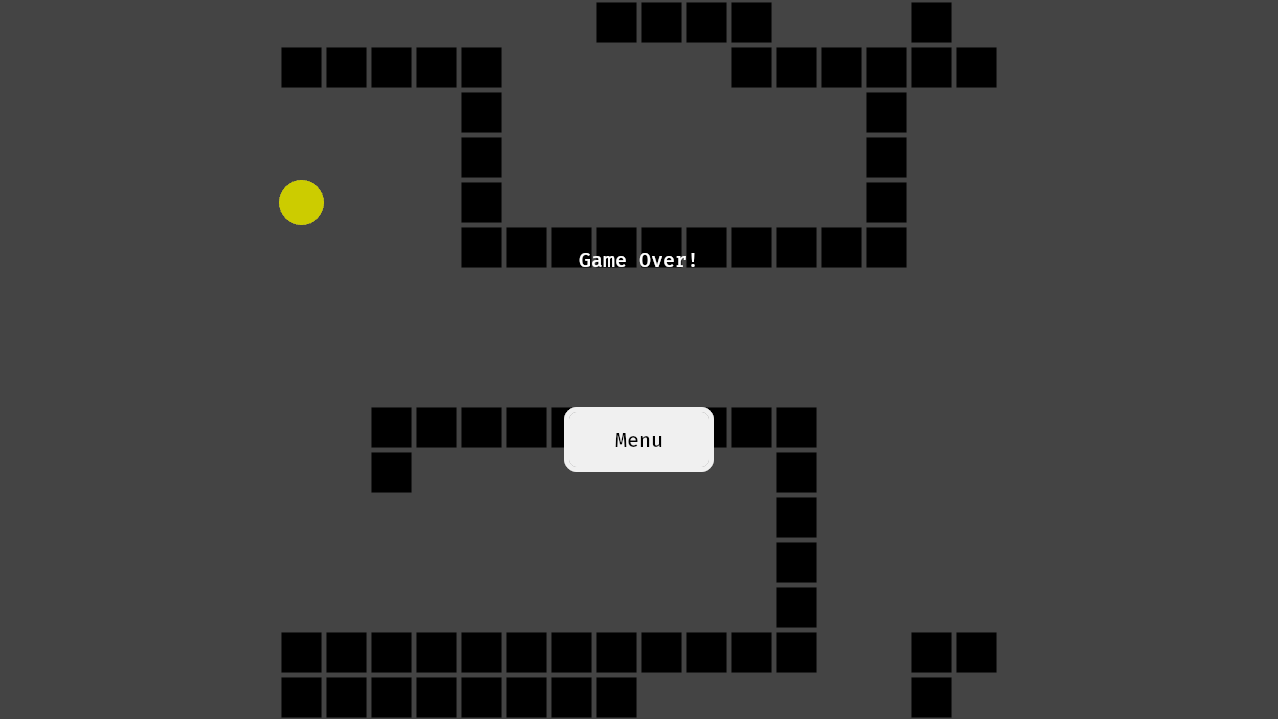
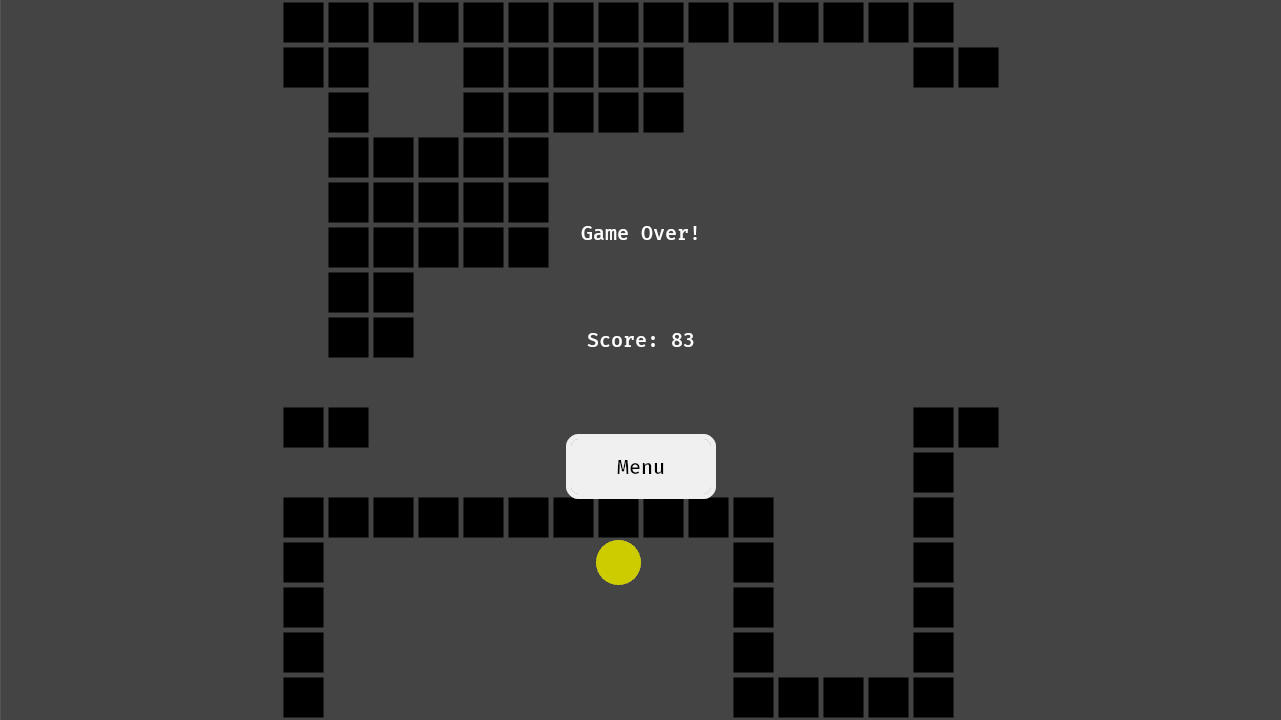
added score

Changed region(s): [[0.2136, 0.5508, 0.7934, 1.0], [0.2136, 0.0, 0.7324, 0.5202], [0.4577, 0.459, 0.5493, 0.4896]]

diff --git a/src/food/mod.rs b/src/food/mod.rs
@@ -7,8 +7,10 @@ pub struct FoodPlugin;
 impl Plugin for FoodPlugin {
     fn build(&self, app: &mut App) {
         app
+            .init_resource::<SnakeStats>()
             .add_systems(FixedUpdate, spawn_food)
             .add_observer(add_sprite_food)
+            .add_observer(increase_score)
         ;
     }
 }
@@ -20,16 +22,30 @@ pub fn spawn_food(
     grid: Res<Grid>,
 ) {
     if query.is_empty() {
-        commands.spawn((
-            Food {},
-            grid.random_unoccupied_pos(&mut random_source),
-        ));
+        if let Some(pos) = grid.random_unoccupied_pos(&mut random_source) {
+            commands.spawn((
+                Food {},
+                pos,
+            ));
+        }
     }
 }
+
+pub fn increase_score(
+    _trigger: Trigger<OnRemove, Food>,
+    mut stats: ResMut<SnakeStats>
+) {
+    stats.eaten += 1;
+}
+
 
 #[derive(Component)]
 pub struct Food {}
 
+#[derive(Resource, Default)]
+pub struct SnakeStats {
+    pub eaten: u32,
+}
 
 pub fn add_sprite_food(
     trigger: Trigger<OnAdd, Food>,

diff --git a/src/ui/view/mod.rs b/src/ui/view/mod.rs
@@ -1,7 +1,7 @@
 use bevy::prelude::*;
 use leafwing_input_manager::prelude::*;
 
-use crate::{actions::HUDAction, buttons::components::SimpleButton, ui::view::{game_over::build_game_over, play::build_play}};
+use crate::{actions::HUDAction, buttons::components::SimpleButton, food::SnakeStats, ui::view::{game_over::build_game_over, play::build_play}};
 
 use super::components::*;
 use crate::app_state::AppState;
@@ -17,13 +17,14 @@ use menu::*;
 /// View function - the ELM way
 pub fn ui_view_system(
     current_state: Res<State<AppState>>,
+    stats: ResMut<SnakeStats>,
     mut commands: Commands,
 ) {
     // Only rebuild when state changed
     let view = match current_state.get() {
         AppState::Menu => commands.spawn(build_menu()),
         AppState::Play => commands.spawn(build_play()),
-        AppState::GameOver => commands.spawn(build_game_over()),
+        AppState::GameOver => commands.spawn(build_game_over(&stats)),
     }.id();
     commands.entity(view).insert(UIRoot {});
 }

diff --git a/src/grid/resources.rs b/src/grid/resources.rs
@@ -35,7 +35,7 @@ impl Grid {
         (min, max)
     }
 
-    pub fn random_unoccupied_pos(&self, rng: &mut RandomSource) -> GridPos {
+    pub fn random_unoccupied_pos(&self, rng: &mut RandomSource) -> Option<GridPos> {
         let mut unoccupied_positions = Vec::new();
         for y in 0..self.size.y {
             for x in 0..self.size.x {
@@ -46,10 +46,11 @@ impl Grid {
             }
         }
         if unoccupied_positions.is_empty() {
-            panic!("No unoccupied positions found");
+            None
+        } else {
+            let i = rng.0.sample(Uniform::new(0, unoccupied_positions.len()).unwrap());
+            Some(GridPos(unoccupied_positions[i]))
         }
-        let i = rng.0.sample(Uniform::new(0, unoccupied_positions.len()).unwrap());
-        GridPos(unoccupied_positions[i])
     }
 
     fn pos_to_i(&self, pos: &UVec2) -> usize {

diff --git a/src/ui/view/game_over.rs b/src/ui/view/game_over.rs
@@ -1,9 +1,9 @@
 use bevy::prelude::*;
 
-use crate::{actions::HUDAction, ui::elements::menu_button};
+use crate::{actions::HUDAction, food::SnakeStats, ui::elements::menu_button};
 
 
-pub fn build_game_over() -> impl Bundle {
+pub fn build_game_over(stats: &SnakeStats) -> impl Bundle {
     // Main column
     (
         Node {
@@ -17,6 +17,7 @@ pub fn build_game_over() -> impl Bundle {
         },
         children![
             Text("Game Over!".into()),
+            Text(format!("Score: {}", stats.eaten)),
             // Menu button
             menu_button("Menu", HUDAction::ToMenu),
         ]

diff --git a/src/grid/components.rs b/src/grid/components.rs
@@ -42,15 +42,6 @@ pub enum GlobalDirection {
 }
 
 impl GlobalDirection {
-    pub fn to_rotation(&self) -> Quat {
-        match self {
-           Self::North => Quat::from_rotation_z(0.0),
-           Self::West => Quat::from_rotation_z(std::f32::consts::PI / 2.0),
-           Self::South => Quat::from_rotation_z(std::f32::consts::PI),
-           Self::East => Quat::from_rotation_z(std::f32::consts::PI * 3.0 / 2.0),
-        }
-    }
-
     pub fn rotate(&self, dir: &LocalDirection) -> Self {
         // add directions
         let a = *self as u8 as i32 + *dir as u8 as i32 - 1;

diff --git a/src/main.rs b/src/main.rs
@@ -1,7 +1,7 @@
 #![feature(trait_alias)]
 use bevy::prelude::*;
 
-use crate::{actions::ActionsPlugin, app_state::AppState, buttons::ButtonsPlugin, food::{Food, FoodPlugin}, game_loop::GameLoopPlugin, grid::{Grid, GridPlugin}, rng::RngPlugin, snake::{spawn_snake, Body, SnakePlugin}, themes::ThemesPlugin, ui::FrontendPlugin};
+use crate::{actions::ActionsPlugin, app_state::AppState, buttons::ButtonsPlugin, food::FoodPlugin, game_loop::GameLoopPlugin, grid::GridPlugin, rng::RngPlugin, snake::SnakePlugin, themes::ThemesPlugin, ui::FrontendPlugin};
 
 mod ui;
 mod buttons;
